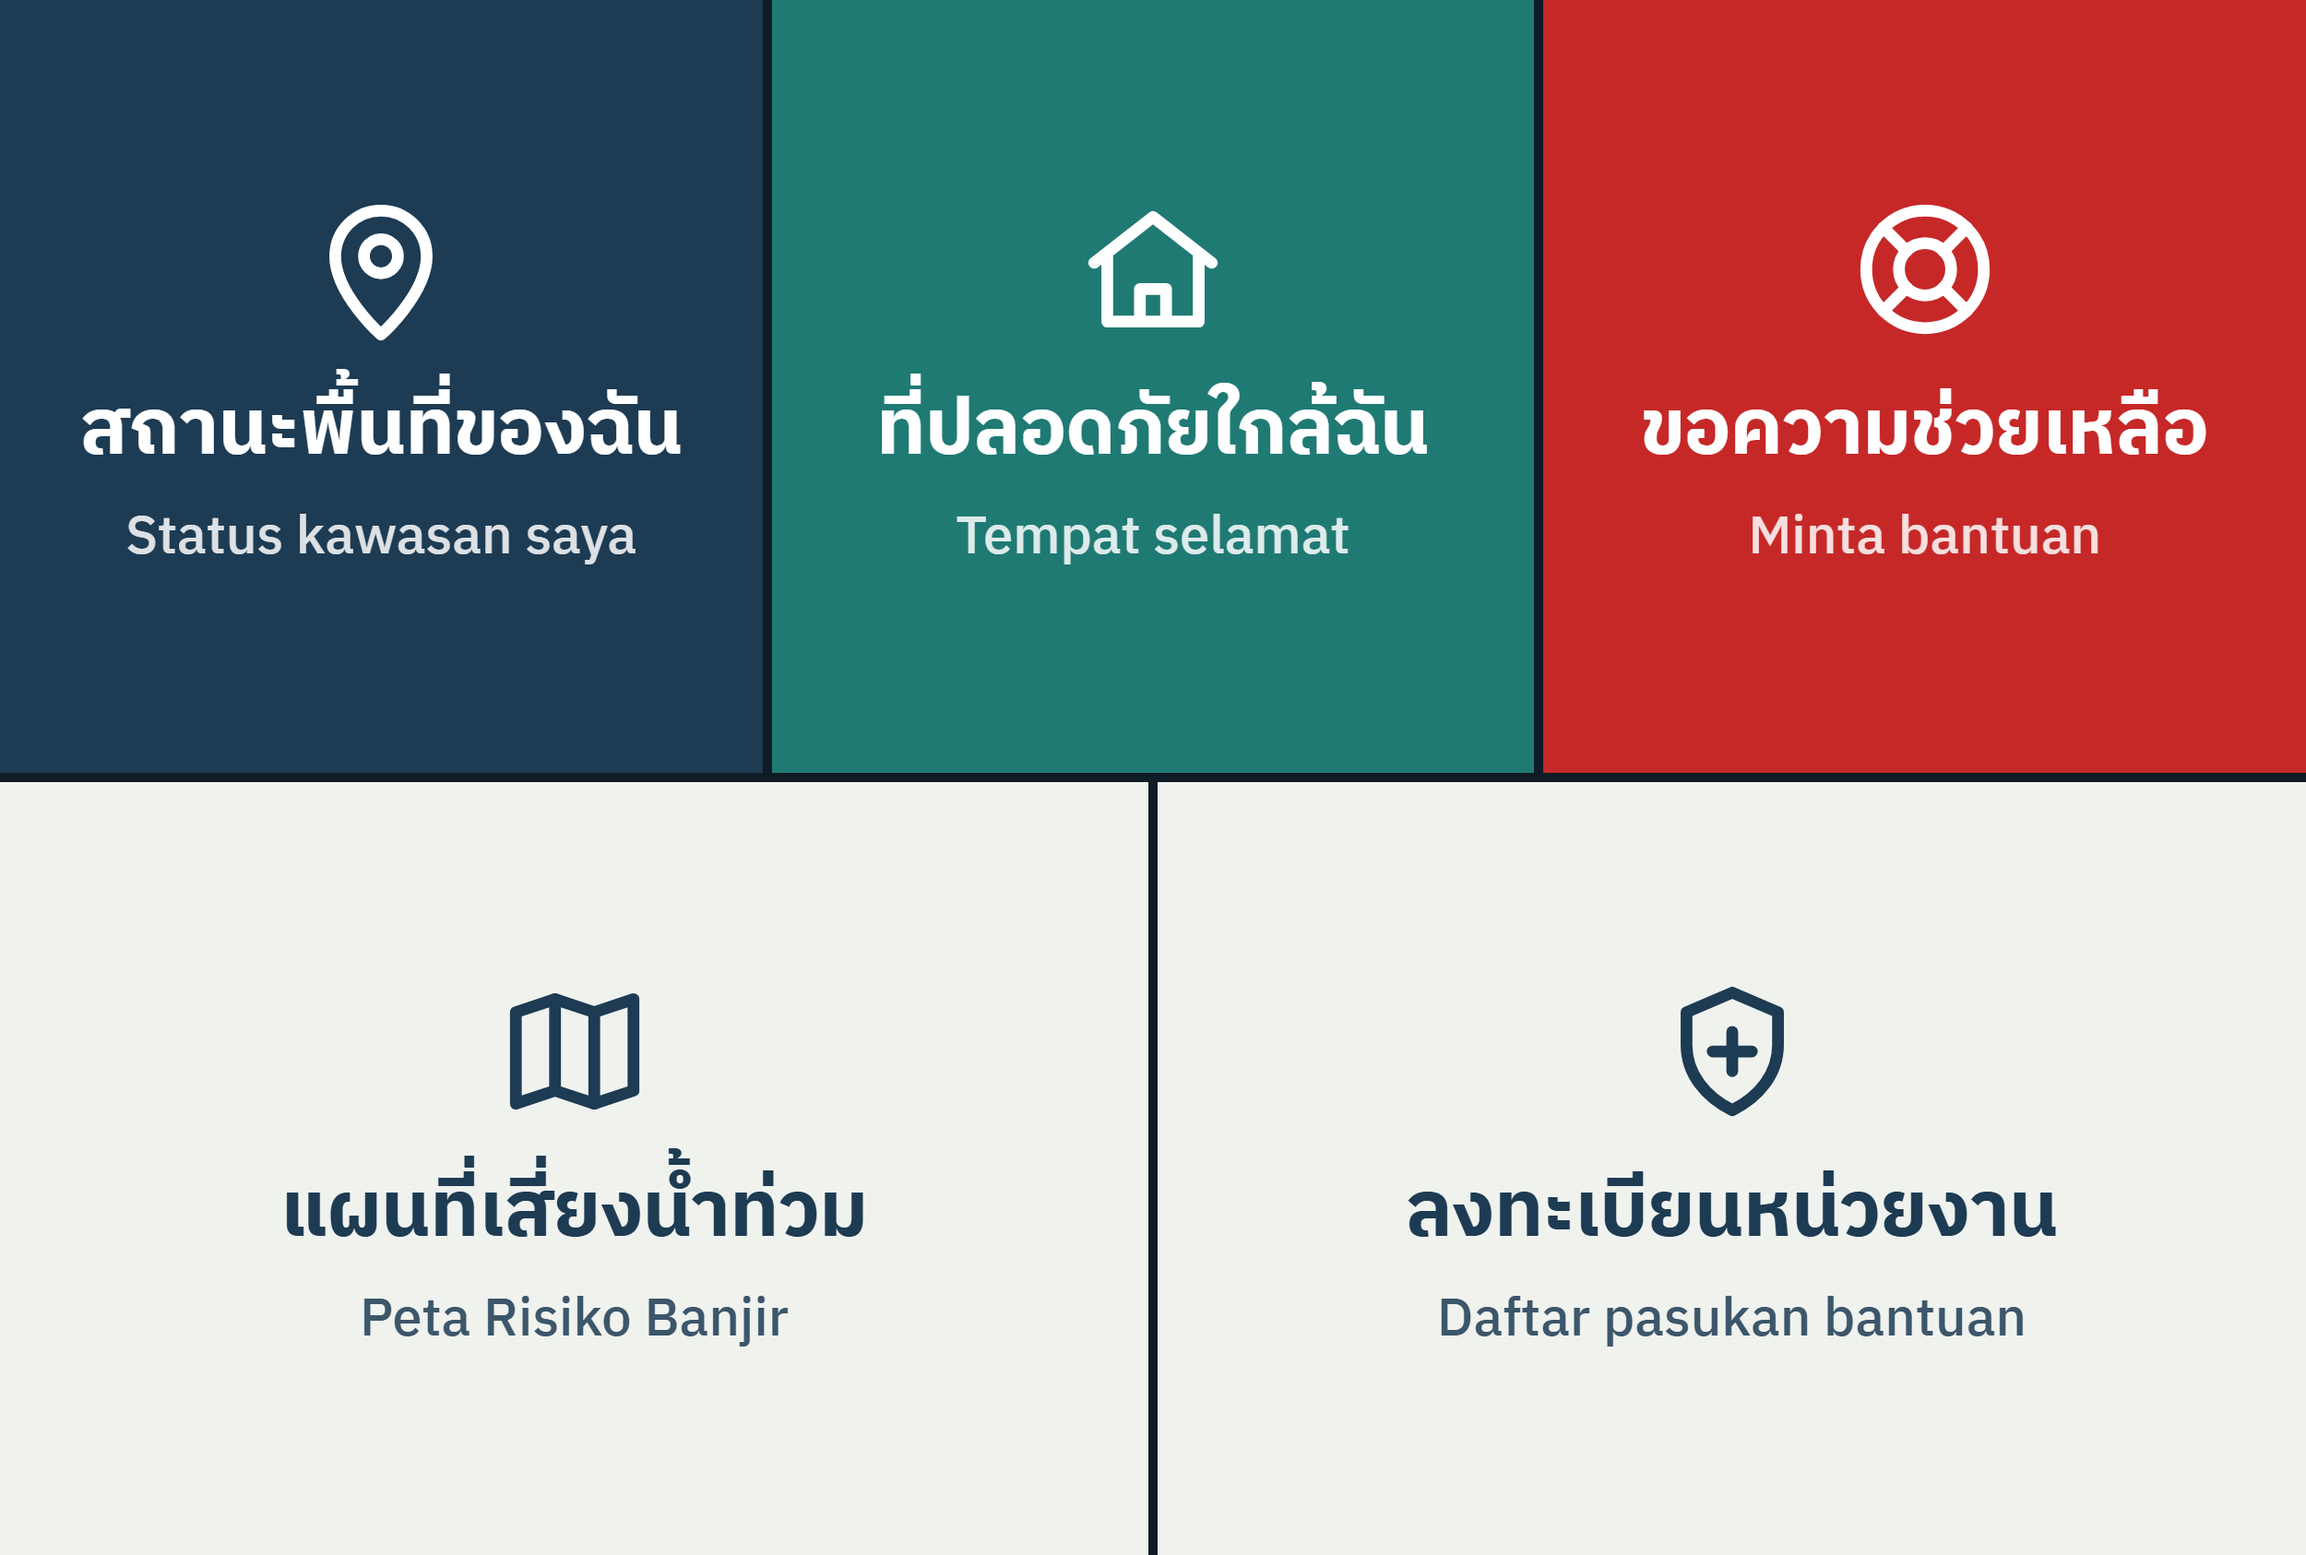
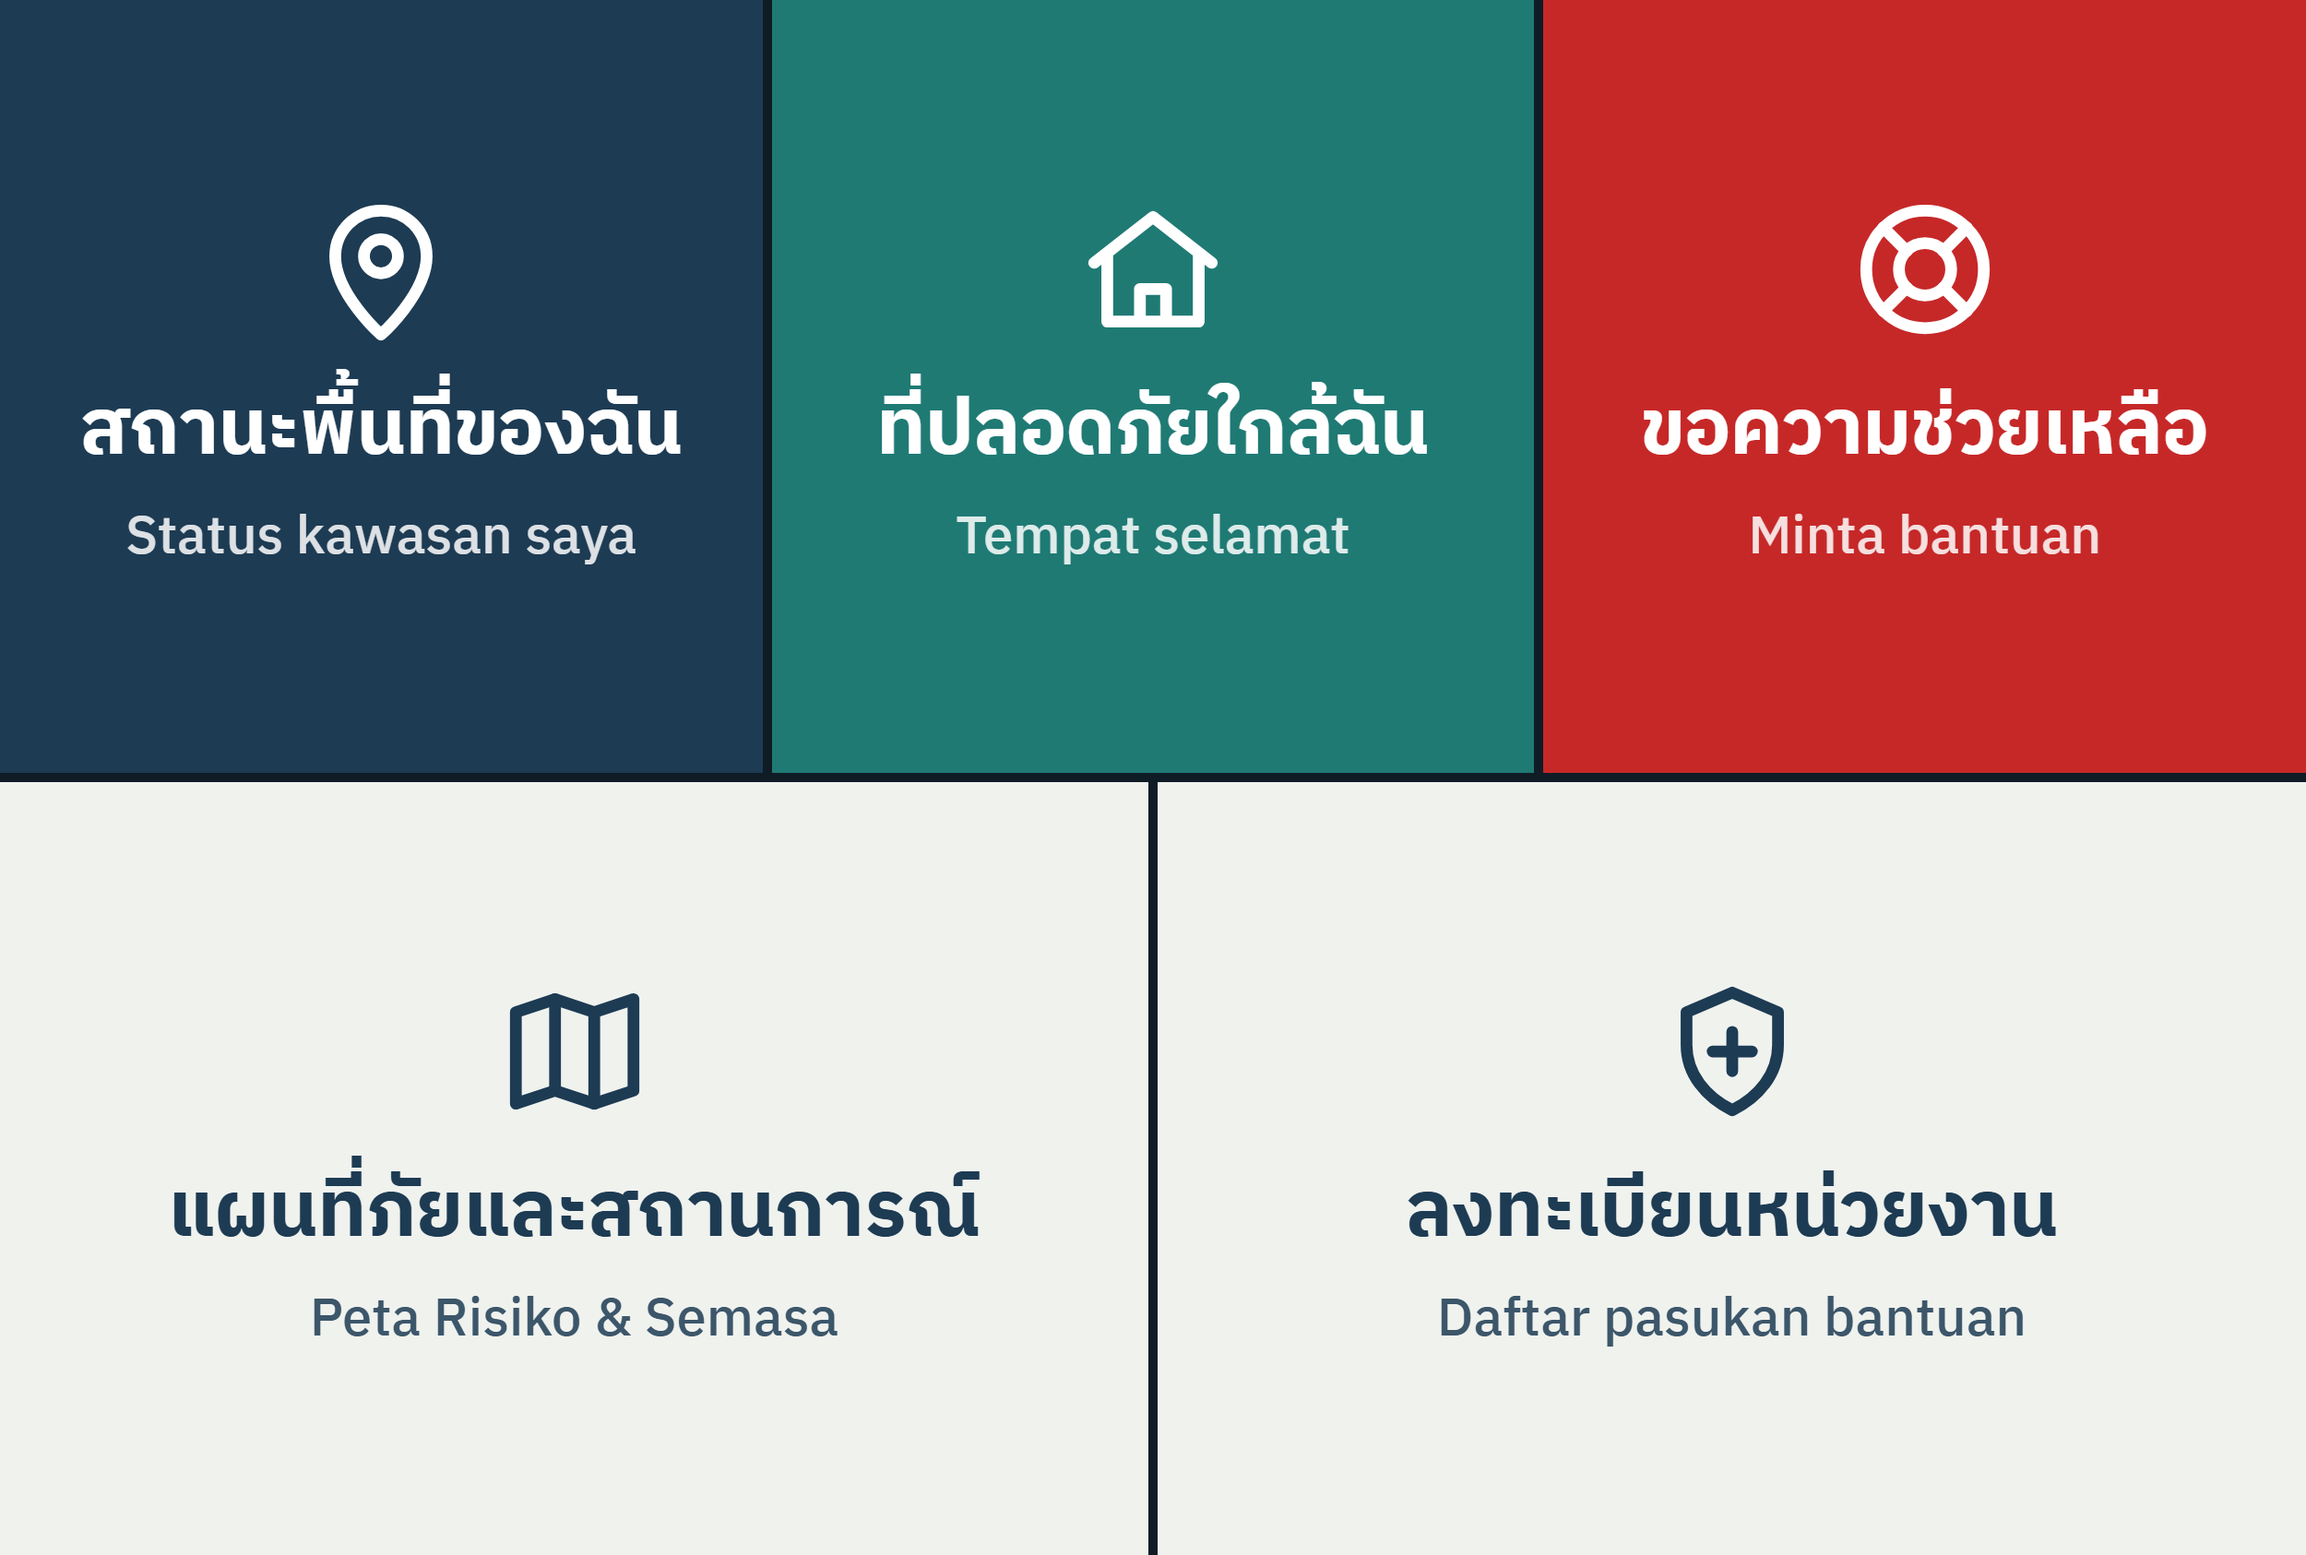
Map renamed Risk & Live Map (แผนที่ภัยและสถานการณ์ / Peta Risiko & Semasa); on phones and tablets the hazard row shows only the chosen one, the others behind 'Other hazards, coming soon'

Changed region(s): [[0.0624, 0.7402, 0.4368, 0.8019], [0.1248, 0.8327, 0.3744, 0.8636]]

diff --git a/components/map/DashboardView.tsx b/components/map/DashboardView.tsx
@@ -277,6 +277,8 @@ export function DashboardView(props: DashboardViewProps) {
 
   const [tab, setTab] = useState<"map" | "transparency">("map");
   const [hazardCode, setHazardCode] = useState("flood");
+  // Phones and tablets show only the chosen hazard until this is opened (the owner, 16 Oct).
+  const [moreHazards, setMoreHazards] = useState(false);
   // Someone who came to see reports wants the current situation, not the long-term risk.
   const [chosenMode, setChosenMode] = useState<MapMode | null>(
     props.openReports ? "live" : props.openFocus === "risk" ? "risk" : null,
@@ -897,6 +899,9 @@ export function DashboardView(props: DashboardViewProps) {
     ) : null;
   }
 
+  const others = hazards.filter((h) => h.code !== hazard.code);
+  const othersSoon = others.every((h) => h.status !== "active");
+
   return (
     <div className="flex flex-col gap-4">
       <h1 className="text-h3 font-bold text-jaga-ink">{t("title")}</h1>
@@ -940,7 +945,10 @@ export function DashboardView(props: DashboardViewProps) {
             </p>
             <ul aria-labelledby="hazard-label" className="flex flex-wrap gap-2">
               {hazards.map((h) => (
-                <li key={h.code}>
+                <li
+                  key={h.code}
+                  className={h.code === hazard.code || moreHazards ? undefined : "max-lg:hidden"}
+                >
                   <button
                     type="button"
                     aria-pressed={h.code === hazard.code}
@@ -959,6 +967,38 @@ export function DashboardView(props: DashboardViewProps) {
                   </button>
                 </li>
               ))}
+              {/*
+               * Only flood is live for now, so on a phone or tablet the other four wait behind
+               * one button that says what they are (the owner, 16 Oct); a laptop has the room
+               * to show them all.
+               */}
+              {others.length > 0 && (
+                <li className="lg:hidden">
+                  <button
+                    type="button"
+                    aria-expanded={moreHazards}
+                    data-more-hazards="true"
+                    onClick={() => setMoreHazards((open) => !open)}
+                    className={`${chipQuiet} ${chipOff} gap-1`}
+                  >
+                    {t(othersSoon ? "hazard.moreSoon" : "hazard.more", { count: others.length })}
+                    <svg
+                      aria-hidden="true"
+                      viewBox="0 0 20 20"
+                      className={`size-5 transition-transform motion-reduce:transition-none ${moreHazards ? "rotate-180" : ""}`}
+                    >
+                      <path
+                        d="M5 8l5 5 5-5"
+                        fill="none"
+                        stroke="currentColor"
+                        strokeWidth="2"
+                        strokeLinecap="round"
+                        strokeLinejoin="round"
+                      />
+                    </svg>
+                  </button>
+                </li>
+              )}
             </ul>
             {props.hazardsState === "unavailable" && <p className={hint}>{t("hazard.failed")}</p>}
           </div>

diff --git a/tests/unit/map.test.tsx b/tests/unit/map.test.tsx
@@ -751,6 +751,27 @@ describe("the hazard switcher on a small screen", () => {
     expect(flood.className).toContain("min-h-9");
   });
 
+  it("on a phone or tablet only the chosen hazard shows until 'Other hazards' is opened (owner, 16 Oct)", () => {
+    const c = dashboard();
+    const item = (code: string) => c.querySelector(`[data-hazard="${code}"]`)!.closest("li")!;
+    expect(item("flood").className).not.toContain("max-lg:hidden");
+    expect(item("fire").className).toContain("max-lg:hidden");
+    const more = c.querySelector<HTMLButtonElement>("[data-more-hazards]")!;
+    expect(more.closest("li")!.className).toContain("lg:hidden");
+    expect(more.getAttribute("aria-expanded")).toBe("false");
+    // Every other hazard is still to come, so the button says so, and how many.
+    const others = c.querySelectorAll("[data-hazard]").length - 1;
+    expect(more.textContent).toBe(th.map.hazard.moreSoon.replace("{count}", String(others)));
+    fireEvent.click(more);
+    expect(more.getAttribute("aria-expanded")).toBe("true");
+    expect(item("fire").className ?? "").not.toContain("max-lg:hidden");
+    // A coming-soon hazard picked from the list stays in view after the list is closed again.
+    fireEvent.click(c.querySelector('[data-hazard="fire"]')!);
+    fireEvent.click(more);
+    expect(item("fire").className ?? "").not.toContain("max-lg:hidden");
+    expect(item("flood").className).toContain("max-lg:hidden");
+  });
+
   it("a hazard that is still coming says so, chosen or not (safety rule 10)", () => {
     const c = dashboard();
     expect(c.querySelector('[data-hazard="fire"]')?.textContent).toContain(

diff --git a/tests/unit/flood-risk-map.test.tsx b/tests/unit/flood-risk-map.test.tsx
@@ -38,10 +38,10 @@ afterEach(() => {
 const ALERT_CLASSES = /bg-alert-|text-alert-|border-alert-|bg-sos/;
 
 describe("the new name", () => {
-  it("is the Flood Risk Map in the header, on the page and on the home button, in every language", () => {
-    expect(th.nav.map).toBe("แผนที่เสี่ยงน้ำท่วม");
-    expect(en.nav.map).toBe("Flood Risk Map");
-    expect(ms.nav.map).toBe("Peta Risiko Banjir");
+  it("is the Risk & Live Map in the header, on the page and on the home button, in every language (renamed 16 Oct)", () => {
+    expect(th.nav.map).toBe("แผนที่ภัยและสถานการณ์");
+    expect(en.nav.map).toBe("Risk & Live Map");
+    expect(ms.nav.map).toBe("Peta Risiko & Semasa");
     for (const m of [th, ms, en]) {
       expect(m.map.title).toBe(m.nav.map);
       expect(m.home.mapLink).toContain(m.nav.map);
